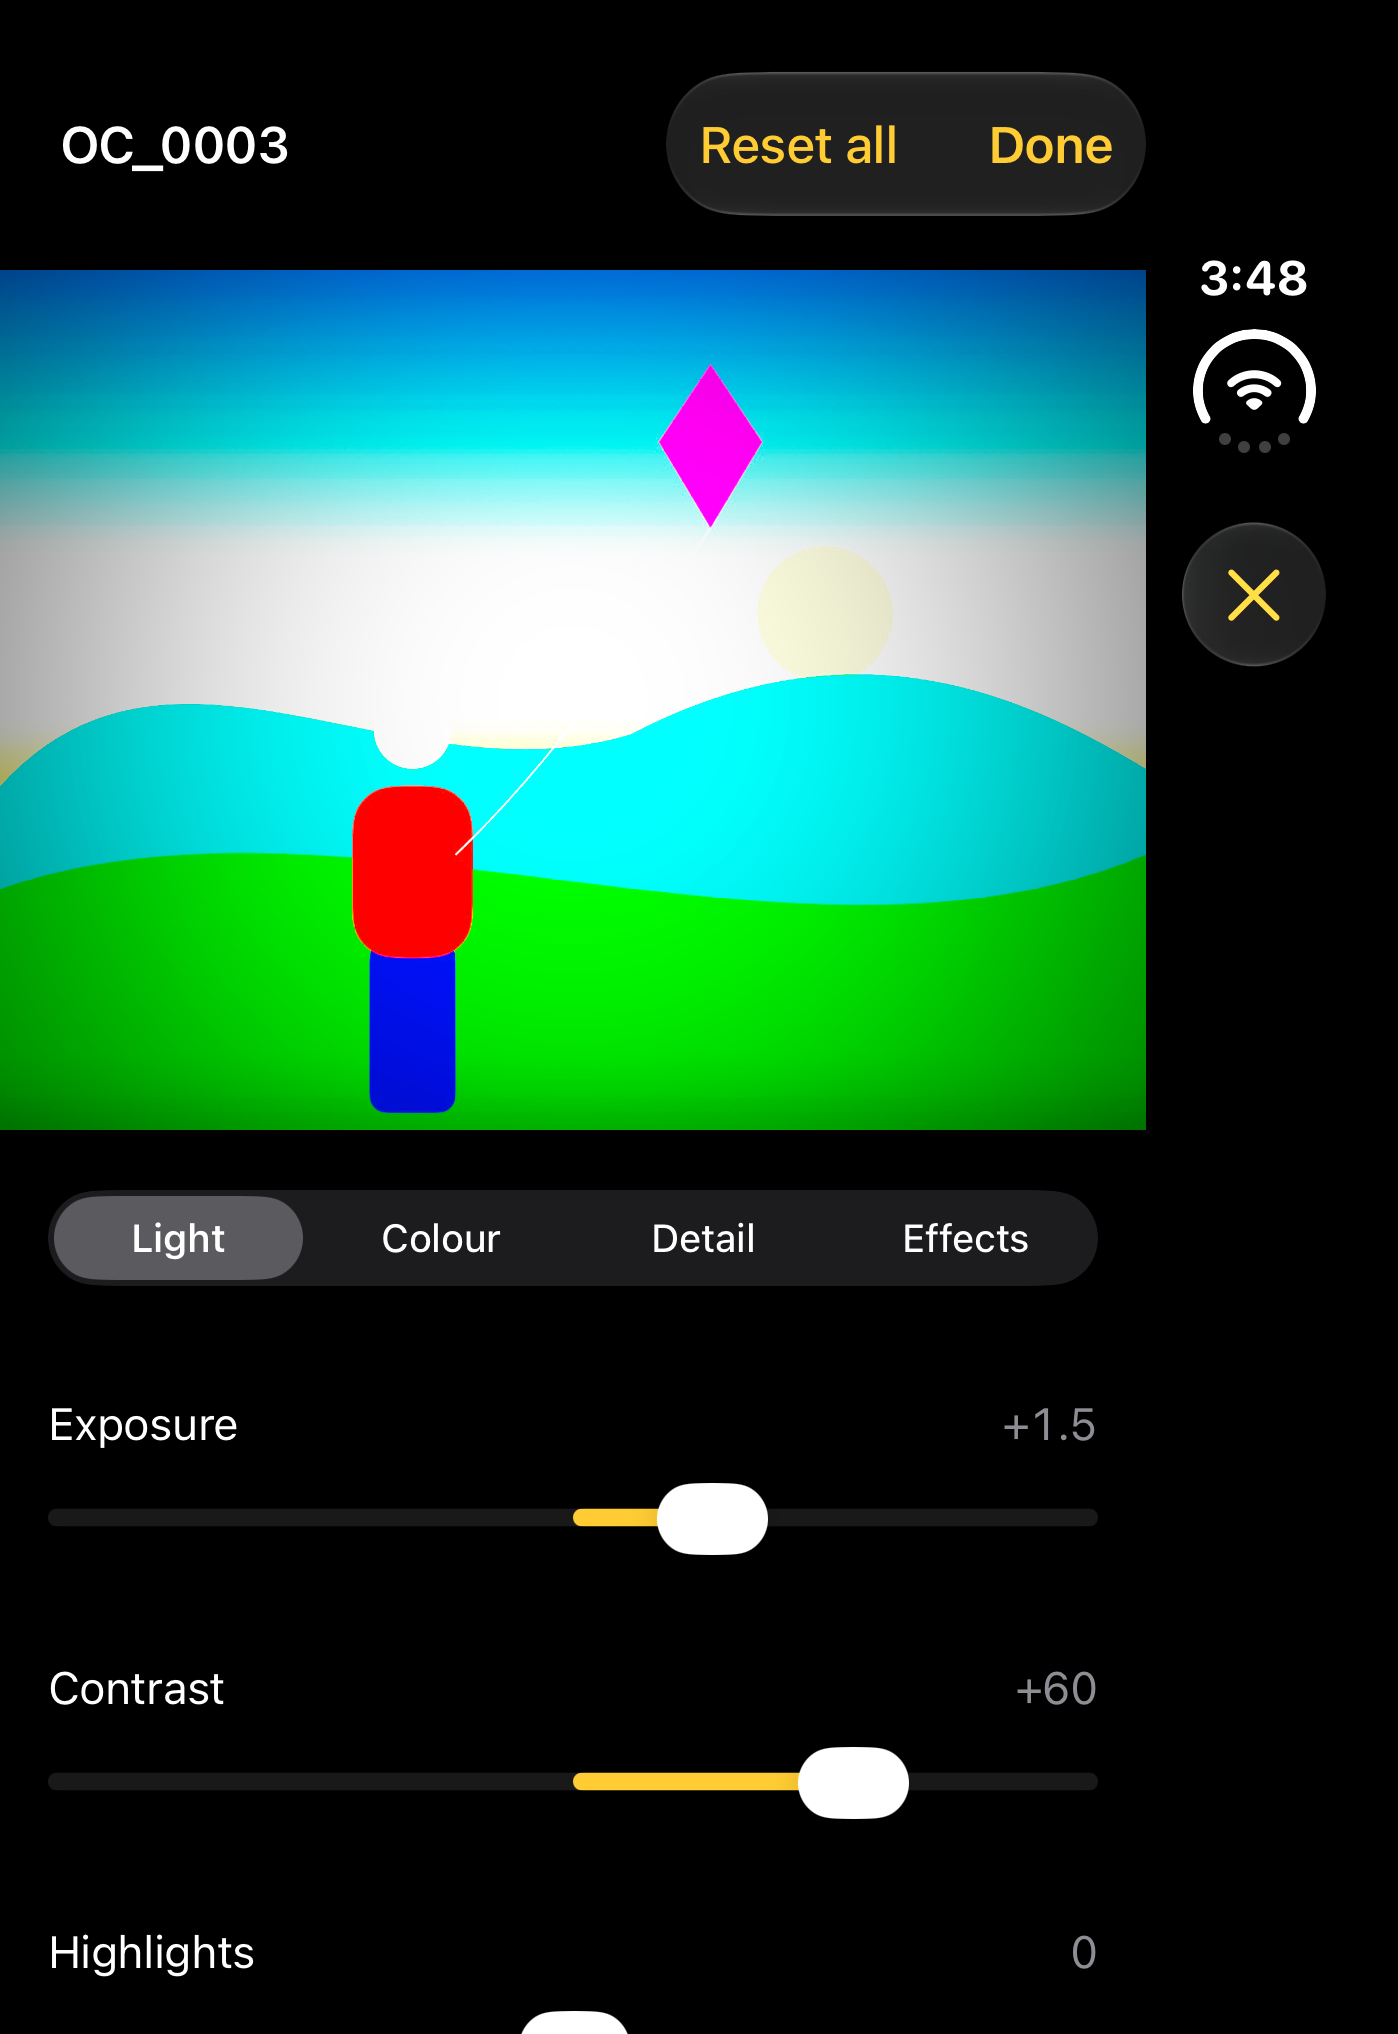
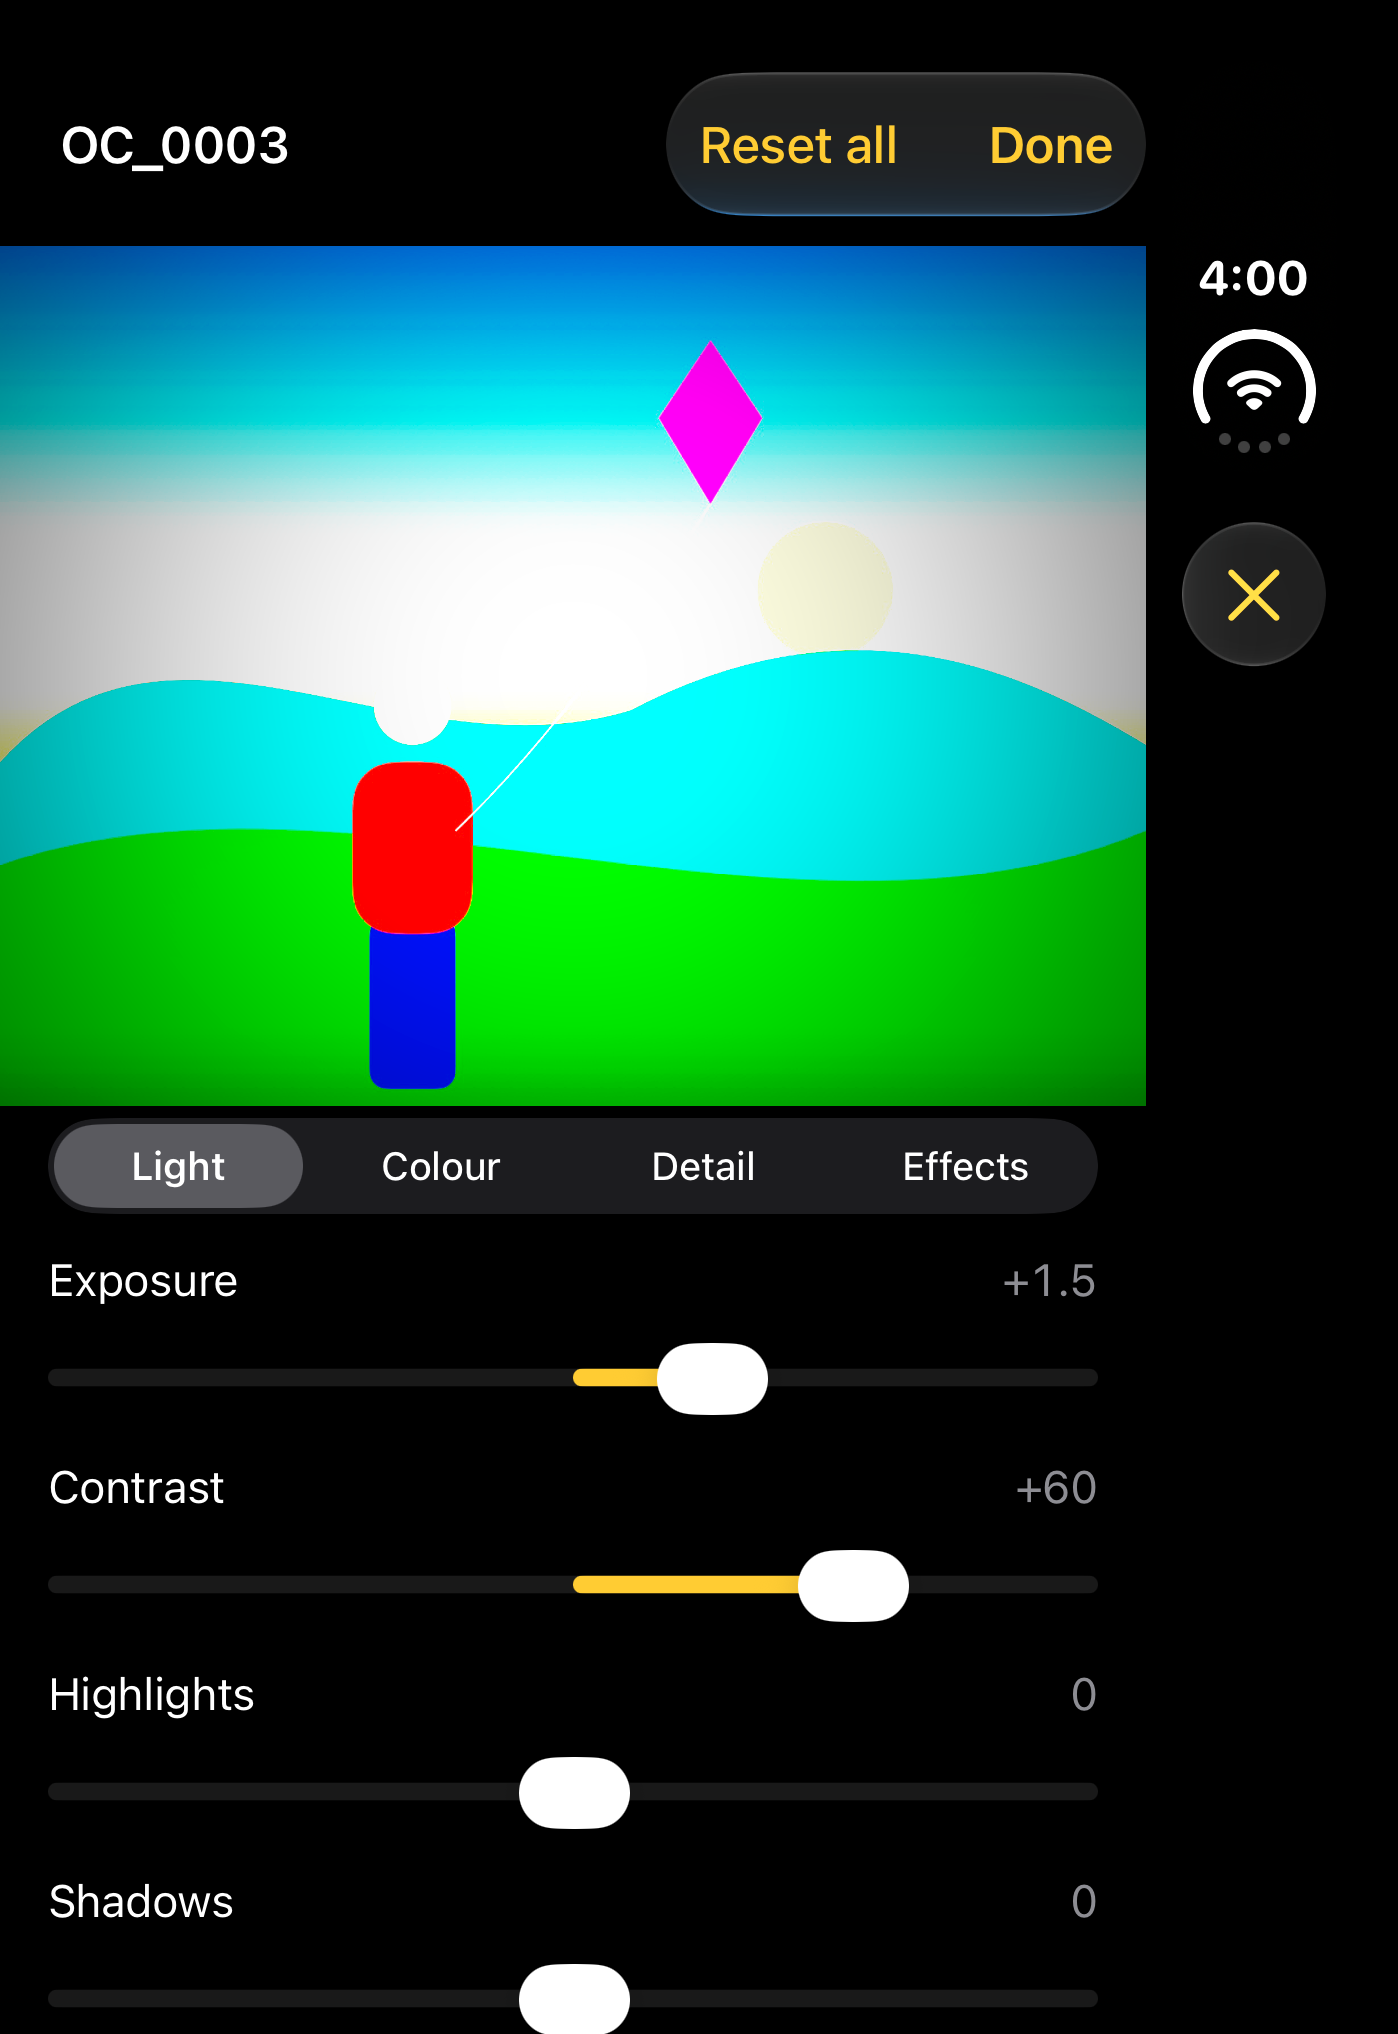
fix: tighten the editor sliders without shrinking their reset target, snap values exactly to their step

diff --git a/OpenCam/UI/Editor/AdjustmentSlider.swift b/OpenCam/UI/Editor/AdjustmentSlider.swift
@@ -1,39 +1,55 @@
 import SwiftUI
 
-/// One adjustment: its name and value on a row, the system slider below. Double-tapping the row resets it.
+/// One adjustment: its name and value on a row, the system slider below. Double-tapping the name row resets it.
 struct AdjustmentSlider: View {
     let key: AdjustmentKey
     @Binding var value: Double
     let onReset: () -> Void
 
+    /// The space between a name row and its slider.
+    private static let nameGap = Theme.Space.s
+    /// How far the reset target reaches above the name row: the gap between rows (`EditorPanel.rowGap`) and 2 pt of the
+    /// previous slider's frame, which has about 3 pt below its thumb, so never its thumb or track.
+    static let reachUp = Theme.Space.m + Theme.Space.xs / 2
+    /// How far it reaches below: the gap to its own slider and 4 pt of that slider's frame, which has about 4.3 pt above its thumb.
+    private static let reachDown = nameGap + Theme.Space.xs
+
     var body: some View {
-        VStack(alignment: .leading, spacing: 0) {
-            HStack(alignment: .firstTextBaseline) {
-                Text(key.title)
-                    .frame(maxWidth: .infinity, alignment: .leading)
-                Text(key.valueText(value))
-                    .monospacedDigit()
-                    .foregroundStyle(.secondary)
-            }
-            .font(.subheadline)
-            .lineLimit(1)
-            // The whole row is the reset target, at least 44 pt tall; the text sits at its foot, just above the slider.
-            .frame(minHeight: Theme.Size.minTarget, alignment: .bottom)
-            .contentShape(.rect)
-            .onTapGesture(count: 2, perform: onReset)
-            .accessibilityHidden(true)
+        VStack(alignment: .leading, spacing: Self.nameGap) {
+            nameRow
+                // A target of 18 pt text plus the reach, 44 pt, that takes no layout height: the padding sets the tappable
+                // shape and the negative padding gives the space back. Drawn above its own slider so the reach below wins there.
+                .padding(.top, Self.reachUp)
+                .padding(.bottom, Self.reachDown)
+                .contentShape(.rect)
+                .onTapGesture(count: 2, perform: onReset)
+                .padding(.top, -Self.reachUp)
+                .padding(.bottom, -Self.reachDown)
+                .zIndex(1)
+                .accessibilityHidden(true)
             // Zero is "no change": the fill grows from it, so an untouched centred slider shows no fill. The value snaps to
             // `key.step` in the binding, because a stepped Slider draws a tick mark per step under the track.
             Slider(value: steppedValue, in: key.range, neutralValue: 0) {
                 Text(key.title)
             }
-            .frame(minHeight: Theme.Size.minTarget)
             .accessibilityValue(key.valueText(value))
             .accessibilityAction(named: "Reset", onReset)
         }
     }
 
+    private var nameRow: some View {
+        HStack(alignment: .firstTextBaseline) {
+            Text(key.title)
+                .frame(maxWidth: .infinity, alignment: .leading)
+            Text(key.valueText(value))
+                .monospacedDigit()
+                .foregroundStyle(.secondary)
+        }
+        .font(.subheadline)
+        .lineLimit(1)
+    }
+
     private var steppedValue: Binding<Double> {
-        Binding(get: { value }, set: { value = ($0 / key.step).rounded() * key.step })
+        Binding(get: { value }, set: { value = key.snapped($0) })
     }
 }

diff --git a/OpenCam/UI/Editor/EditorPanel.swift b/OpenCam/UI/Editor/EditorPanel.swift
@@ -4,11 +4,14 @@ import SwiftUI
 struct EditorPanel: View {
     @Bindable var model: EditorModel
 
+    /// The space between one slider and the next name row.
+    static let rowGap = Theme.Space.m
+
     /// The Looks group arrives with Task 8.
     private static let groups = EditorGroup.allCases.filter { $0 != .looks }
 
     var body: some View {
-        VStack(spacing: Theme.Space.m) {
+        VStack(spacing: 0) {
             Picker("Group", selection: $model.group) {
                 ForEach(Self.groups, id: \.self) { group in
                     Text(group.title).tag(group)
@@ -18,17 +21,19 @@ struct EditorPanel: View {
             .labelsHidden()
             .padding(.horizontal, Theme.Space.l)
             ScrollView {
-                // The rows' 44 pt name areas already space them evenly.
-                VStack(spacing: 0) {
+                VStack(spacing: Self.rowGap) {
                     ForEach(model.group.keys, id: \.self) { key in
                         AdjustmentSlider(key: key, value: $model.adjustments[key]) { model.reset(key) }
                     }
                 }
                 .padding(.horizontal, Theme.Space.l)
+                // The gap under the picker is inside the scroll view, as tall as the first row's reset reach, because the
+                // scroll view stops touches at its edge.
+                .padding(.top, AdjustmentSlider.reachUp)
                 .padding(.bottom, Theme.Space.l)
             }
             .scrollBounceBehavior(.basedOnSize)
         }
-        .padding(.top, Theme.Space.m)
+        .padding(.top, Theme.Space.xs)
     }
 }

diff --git a/OpenCamTests/EditorModelTests.swift b/OpenCamTests/EditorModelTests.swift
@@ -76,6 +76,18 @@ import Testing
         model.adjustments.contrast = 25; #expect(!model.hasUnsavedChanges)  // back to the opening value
         model.resetAll(); #expect(model.hasUnsavedChanges)                  // the opening edit was not empty
     }
+    @Test func exposureBackOnASavedValueIsNotAChange() async throws {
+        let dir = try TestFiles.directory()
+        _ = try TestFiles.writeJPEG(width: 400, height: 300, rgb: SIMD3(0.5, 0.5, 0.5), to: dir.appending(path: "OC_0001.JPG"))
+        try EditStore(directory: dir).save(PhotoEdit(adjustments: Adjustments().setting(.exposure, to: 0.3)), stem: "OC_0001")
+        let model = EditorModel(item: try #require(LibraryScanner.items(in: dir).first), edits: EditStore(directory: dir), looks: try LookStore(directory: TestFiles.directory()))
+        await model.load()
+        #expect(AdjustmentKey.exposure.snapped(0.1 + 0.2) == 0.3); #expect(AdjustmentKey.exposure.snapped(3 * 0.1) == 0.3)
+        model.adjustments.exposure = 0.7; model.adjustments.exposure = 0.1 + 0.2   // 0.30000000000000004, raw
+        #expect(!model.hasUnsavedChanges)
+        model.adjustments.exposure = AdjustmentKey.exposure.snapped(0.3 + 0.1)     // one step
+        #expect(model.hasUnsavedChanges)
+    }
     @Test func newerVersionEditHasNoUnsavedChanges() async throws {
         let dir = try TestFiles.directory()
         _ = try TestFiles.writeJPEG(width: 400, height: 300, rgb: SIMD3(0.5, 0.5, 0.5), to: dir.appending(path: "OC_0001.JPG"))

diff --git a/OpenCam/Edit/AdjustmentKey.swift b/OpenCam/Edit/AdjustmentKey.swift
@@ -34,6 +34,14 @@ nonisolated enum AdjustmentKey: String, CaseIterable, Sendable {
 
     var step: Double { self == .exposure ? 0.1 : 1 }
 
+    /// `value` on the nearest step, clamped to the range. Divides a whole number of steps by the steps per unit, so 0.1 + 0.2
+    /// gives exactly the `Double` written 0.3 (multiplying by 0.1 would leave 0.30000000000000004).
+    func snapped(_ value: Double) -> Double {
+        let stepsPerUnit = (1 / step).rounded()
+        let snapped = (value * stepsPerUnit).rounded() / stepsPerUnit
+        return min(max(snapped, range.lowerBound), range.upperBound)
+    }
+
     var group: EditorGroup {
         switch self {
         case .exposure, .contrast, .highlights, .shadows, .whites, .blacks: .light

diff --git a/OpenCam/Edit/Adjustments.swift b/OpenCam/Edit/Adjustments.swift
@@ -69,6 +69,11 @@ nonisolated struct Adjustments: Codable, Sendable, Hashable {
 
     var isIdentity: Bool { AdjustmentKey.allCases.allSatisfy { self[$0] == 0 } }
 
+    /// Equal at every key once each value is on its step, so values that read the same compare the same.
+    func matches(_ other: Adjustments) -> Bool {
+        AdjustmentKey.allCases.allSatisfy { $0.snapped(self[$0]) == $0.snapped(other[$0]) }
+    }
+
     /// True when any of exposure through saturation is not zero.
     var hasColourChanges: Bool {
         AdjustmentKey.allCases.prefix { $0 != .sharpening }.contains { self[$0] != 0 }

diff --git a/OpenCam/UI/Editor/EditorModel.swift b/OpenCam/UI/Editor/EditorModel.swift
@@ -56,7 +56,7 @@ import OSLog
         self.renderPreview = renderPreview ?? { image, adjustments in await renderer.renderedCGImage(image, adjustments: adjustments) }
     }
 
-    var hasChanges: Bool { adjustments != savedEdit.adjustments || lookName != savedEdit.lookName }
+    var hasChanges: Bool { !adjustments.matches(savedEdit.adjustments) || lookName != savedEdit.lookName }
 
     /// Changes that leaving without Done would lose. A photo that cannot be edited (any failed phase) has none to lose.
     var hasUnsavedChanges: Bool {

diff --git a/OpenCam/UI/Editor/EditorView.swift b/OpenCam/UI/Editor/EditorView.swift
@@ -85,7 +85,7 @@ struct EditorView: View {
     /// The picture's fitted height at the full width, held so the panel keeps `minPanelHeight`.
     private func pictureHeight(in size: CGSize) -> CGFloat {
         let aspect = model.proxySize.map { $0.width / max($0.height, 1) } ?? Self.defaultAspect
-        let fitted = size.width / aspect + 2 * Theme.Space.s
+        let fitted = size.width / aspect
         return max(0, min(fitted, size.height - Self.minPanelHeight))
     }
 }

diff --git a/OpenCam/UI/Editor/EditorPicture.swift b/OpenCam/UI/Editor/EditorPicture.swift
@@ -7,7 +7,6 @@ struct EditorPicture: View {
     var body: some View {
         content
             .frame(maxWidth: .infinity, maxHeight: .infinity)
-            .padding(.vertical, Theme.Space.s)
     }
 
     @ViewBuilder
